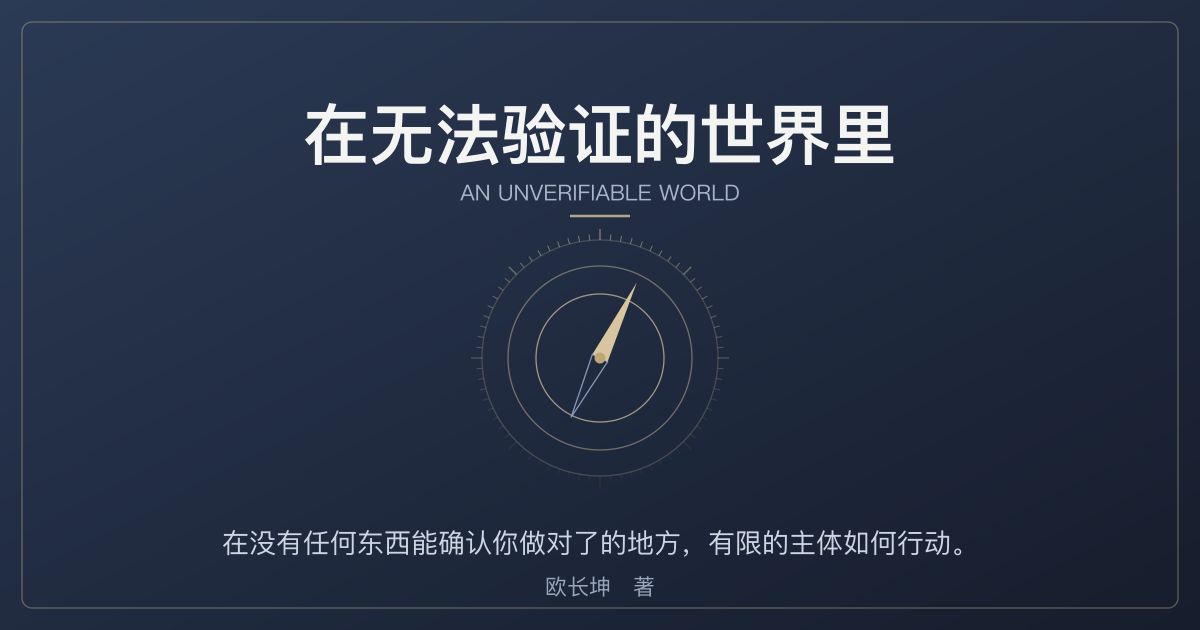
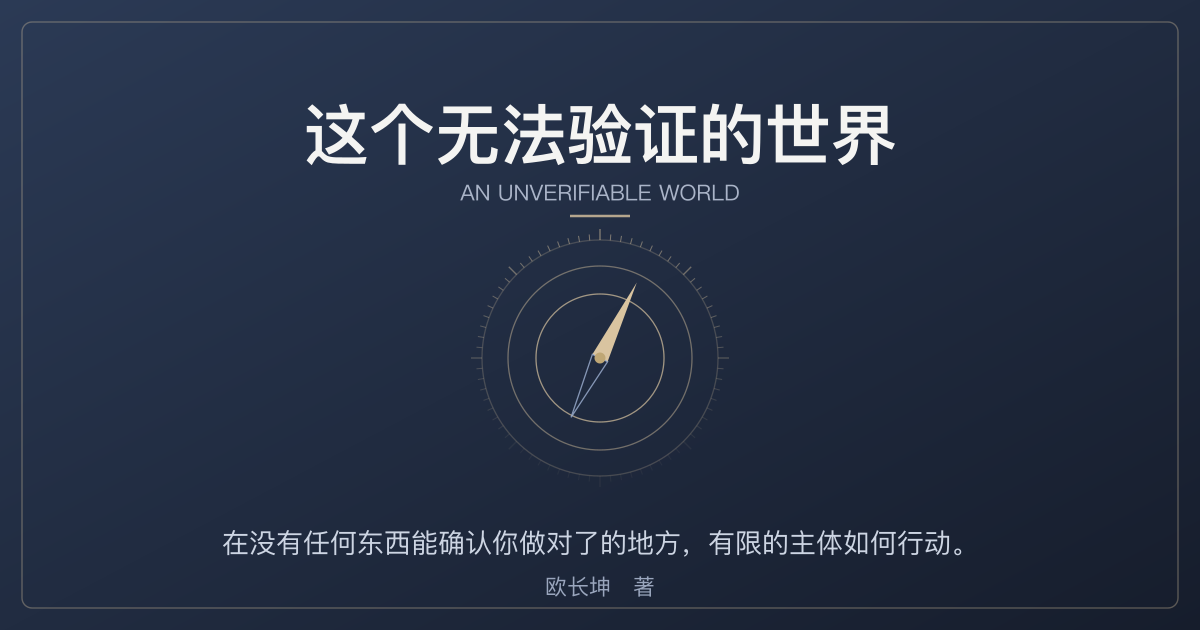
book: rename the Chinese title to 这个无法验证的世界
Updates the title across README, LICENSE, the website and book build
scripts, and the regenerated Open Graph card. The English title stays
An Unverifiable World; the recurring 如何在无法验证的世界里生活 footnote
legend is prose and left unchanged.

Changed region(s): [[0.2467, 0.1508, 0.74, 0.2714]]

diff --git a/scripts/build_book.py b/scripts/build_book.py
@@ -1,6 +1,6 @@
 #!/usr/bin/env python3
 # -*- coding: utf-8 -*-
-"""把《在无法验证的世界里》/《An Unverifiable World》编译成可下载的 PDF 与 EPUB。
+"""把《这个无法验证的世界》/《An Unverifiable World》编译成可下载的 PDF 与 EPUB。
 
 两个语种各产两份文件，写到仓库根的 dist/：
     unverifiable-world-zh.pdf / .epub
@@ -42,7 +42,7 @@ class Lang:
         self.cjk = cjk  # 是否需要 CJK 主字体（正文以中文为主）
 
 
-ZH = Lang("zh", "SUMMARY.md", "在无法验证的世界里", "An Unverifiable World",
+ZH = Lang("zh", "SUMMARY.md", "这个无法验证的世界", "An Unverifiable World",
           "欧长坤", "zh-CN", cjk=True)
 EN = Lang("en", "SUMMARY.en.md", "An Unverifiable World",
           "How bounded actors act when no oracle can say they are right",

diff --git a/website/build.py b/website/build.py
@@ -1,6 +1,6 @@
 #!/usr/bin/env python3
 # -*- coding: utf-8 -*-
-"""把《在无法验证的世界里》构建成一个多语言静态阅读网站。
+"""把《这个无法验证的世界》构建成一个多语言静态阅读网站。
 
 - 中文版读取仓库根目录的 SUMMARY.md，生成在 public/ 根目录；
 - 英文版读取 SUMMARY.en.md，生成在 public/en/；
@@ -56,7 +56,7 @@ ZH = Lang(
     og_locale="zh_CN",
     summary=os.path.join(ROOT, "SUMMARY.md"),
     out_subdir="",
-    title="在无法验证的世界里",
+    title="这个无法验证的世界",
     subtitle="An Unverifiable World",
     author="欧长坤",
     blurb="当对错无从验证，有限的主体如何行动得当？",

diff --git a/scripts/figures/og_card.py b/scripts/figures/og_card.py
@@ -14,7 +14,7 @@ OUT = os.path.join(os.path.dirname(__file__), "..", "..", "website", "og.svg")
 GOLD = "#d9c4a0"
 BLUE = "#9fb2d4"
 W, H = 1200, 630
-TITLE = "在无法验证的世界里"
+TITLE = "这个无法验证的世界"
 SUB = "AN UNVERIFIABLE WORLD"
 AUTHOR = "欧长坤　著"
 BLURB = "在没有任何东西能确认你做对了的地方，有限的主体如何行动。"

diff --git a/website/README.md b/website/README.md
@@ -1,6 +1,6 @@
 # 阅读网站
 
-把《在无法验证的世界里》构建成一个简单的多语言静态阅读网站：封面、目录、各章页（带侧栏目录、语言切换与上一页／下一页）。
+把《这个无法验证的世界》构建成一个简单的多语言静态阅读网站：封面、目录、各章页（带侧栏目录、语言切换与上一页／下一页）。
 
 - **数学**：行内 `$...$`、独立 `$$...$$` 交给 KaTeX 在浏览器端渲染。
 - **图片**：`book/figures/` 下的 SVG 原生显示。

diff --git a/README.md b/README.md
@@ -1,4 +1,4 @@
-# 在无法验证的世界里
+# 这个无法验证的世界
 
 > 在没有任何东西能确认你做对了的地方，有限的主体如何行动。
 
